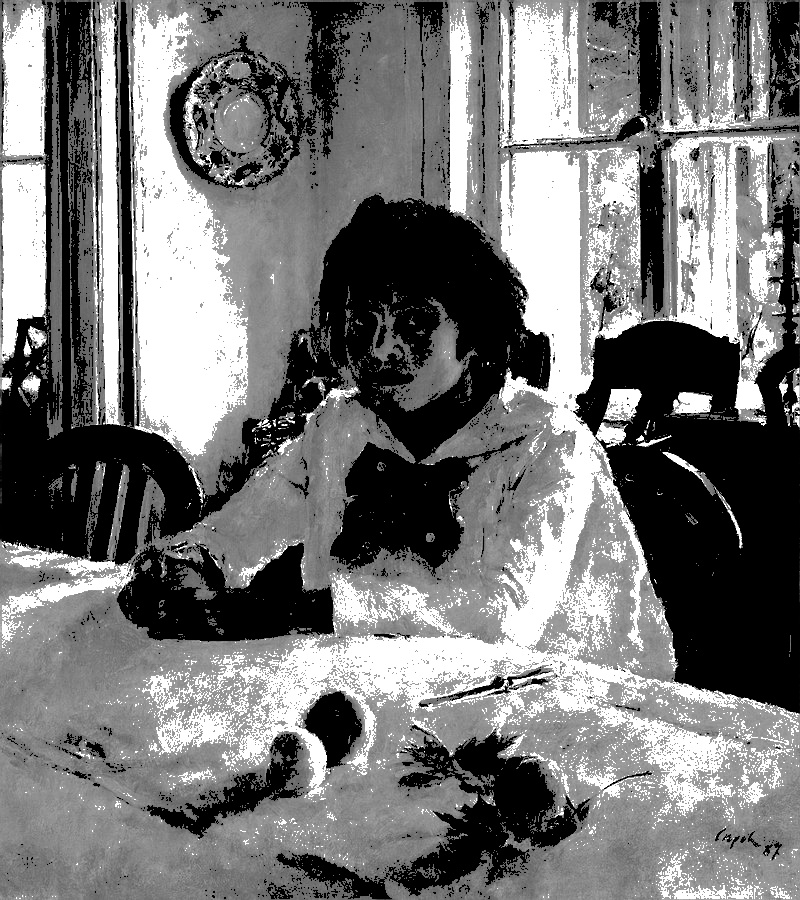
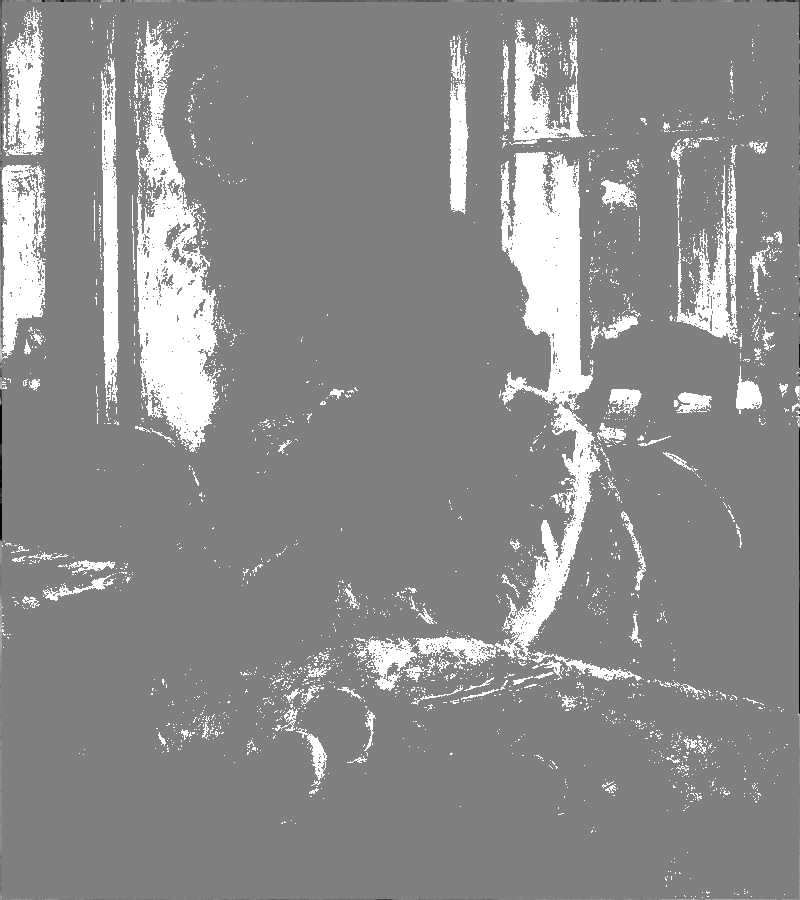
grey to bw #2

diff --git a/main.c b/main.c
@@ -29,6 +29,7 @@ unsigned char*  gray_to_bw( unsigned char* Image, int sizeV, int sizeH, int t_bl
         for (j = 2; j < sizeV-1; j++) {
             if (Image[sizeV*i+j] < t_black) Image[sizeV*i+j] = 0;
             if (Image[sizeV*i+j] > t_white) Image[sizeV*i+j] = 255;
+	    else Image[sizeV*i+j] = 127;
         }
     }
 }
@@ -53,7 +54,7 @@ int main() {
 
     newImage = color_to_gray(idata, iw, ih, n);
     int t_black = 100;
-    int t_white = 160;
+    int t_white = 180;
     gray_to_bw(newImage, iw, ih, t_black, t_white);
    
     char* outputPath = "result.png";
